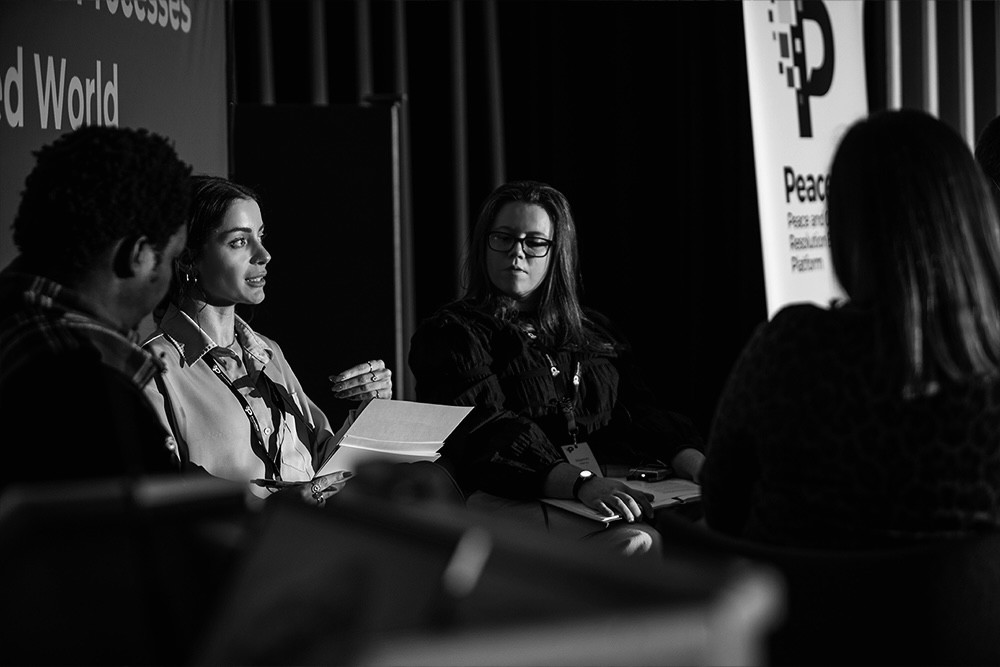
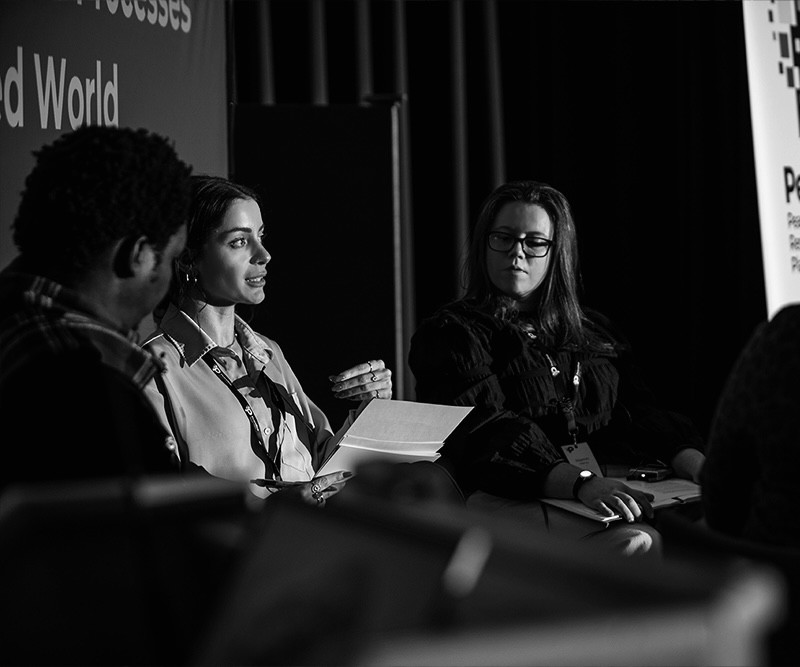
Crop the right edge of the home page photo

diff --git a/src/index.md b/src/index.md
@@ -3,7 +3,7 @@ layout: base.njk
 ---
 
 <div class="section"><div class="container split center">
-<div><img class="bw" src="/assets/img/home-conference.jpg" alt="Elisa D’Amico speaking on a panel at a PeaceRep conference" width="1000" height="667"></div>
+<div><img class="bw" src="/assets/img/home-conference.jpg" alt="Elisa D’Amico speaking on a panel at a PeaceRep conference" width="800" height="667"></div>
 <div>
 
 ## Assistant Professor, University College Dublin
